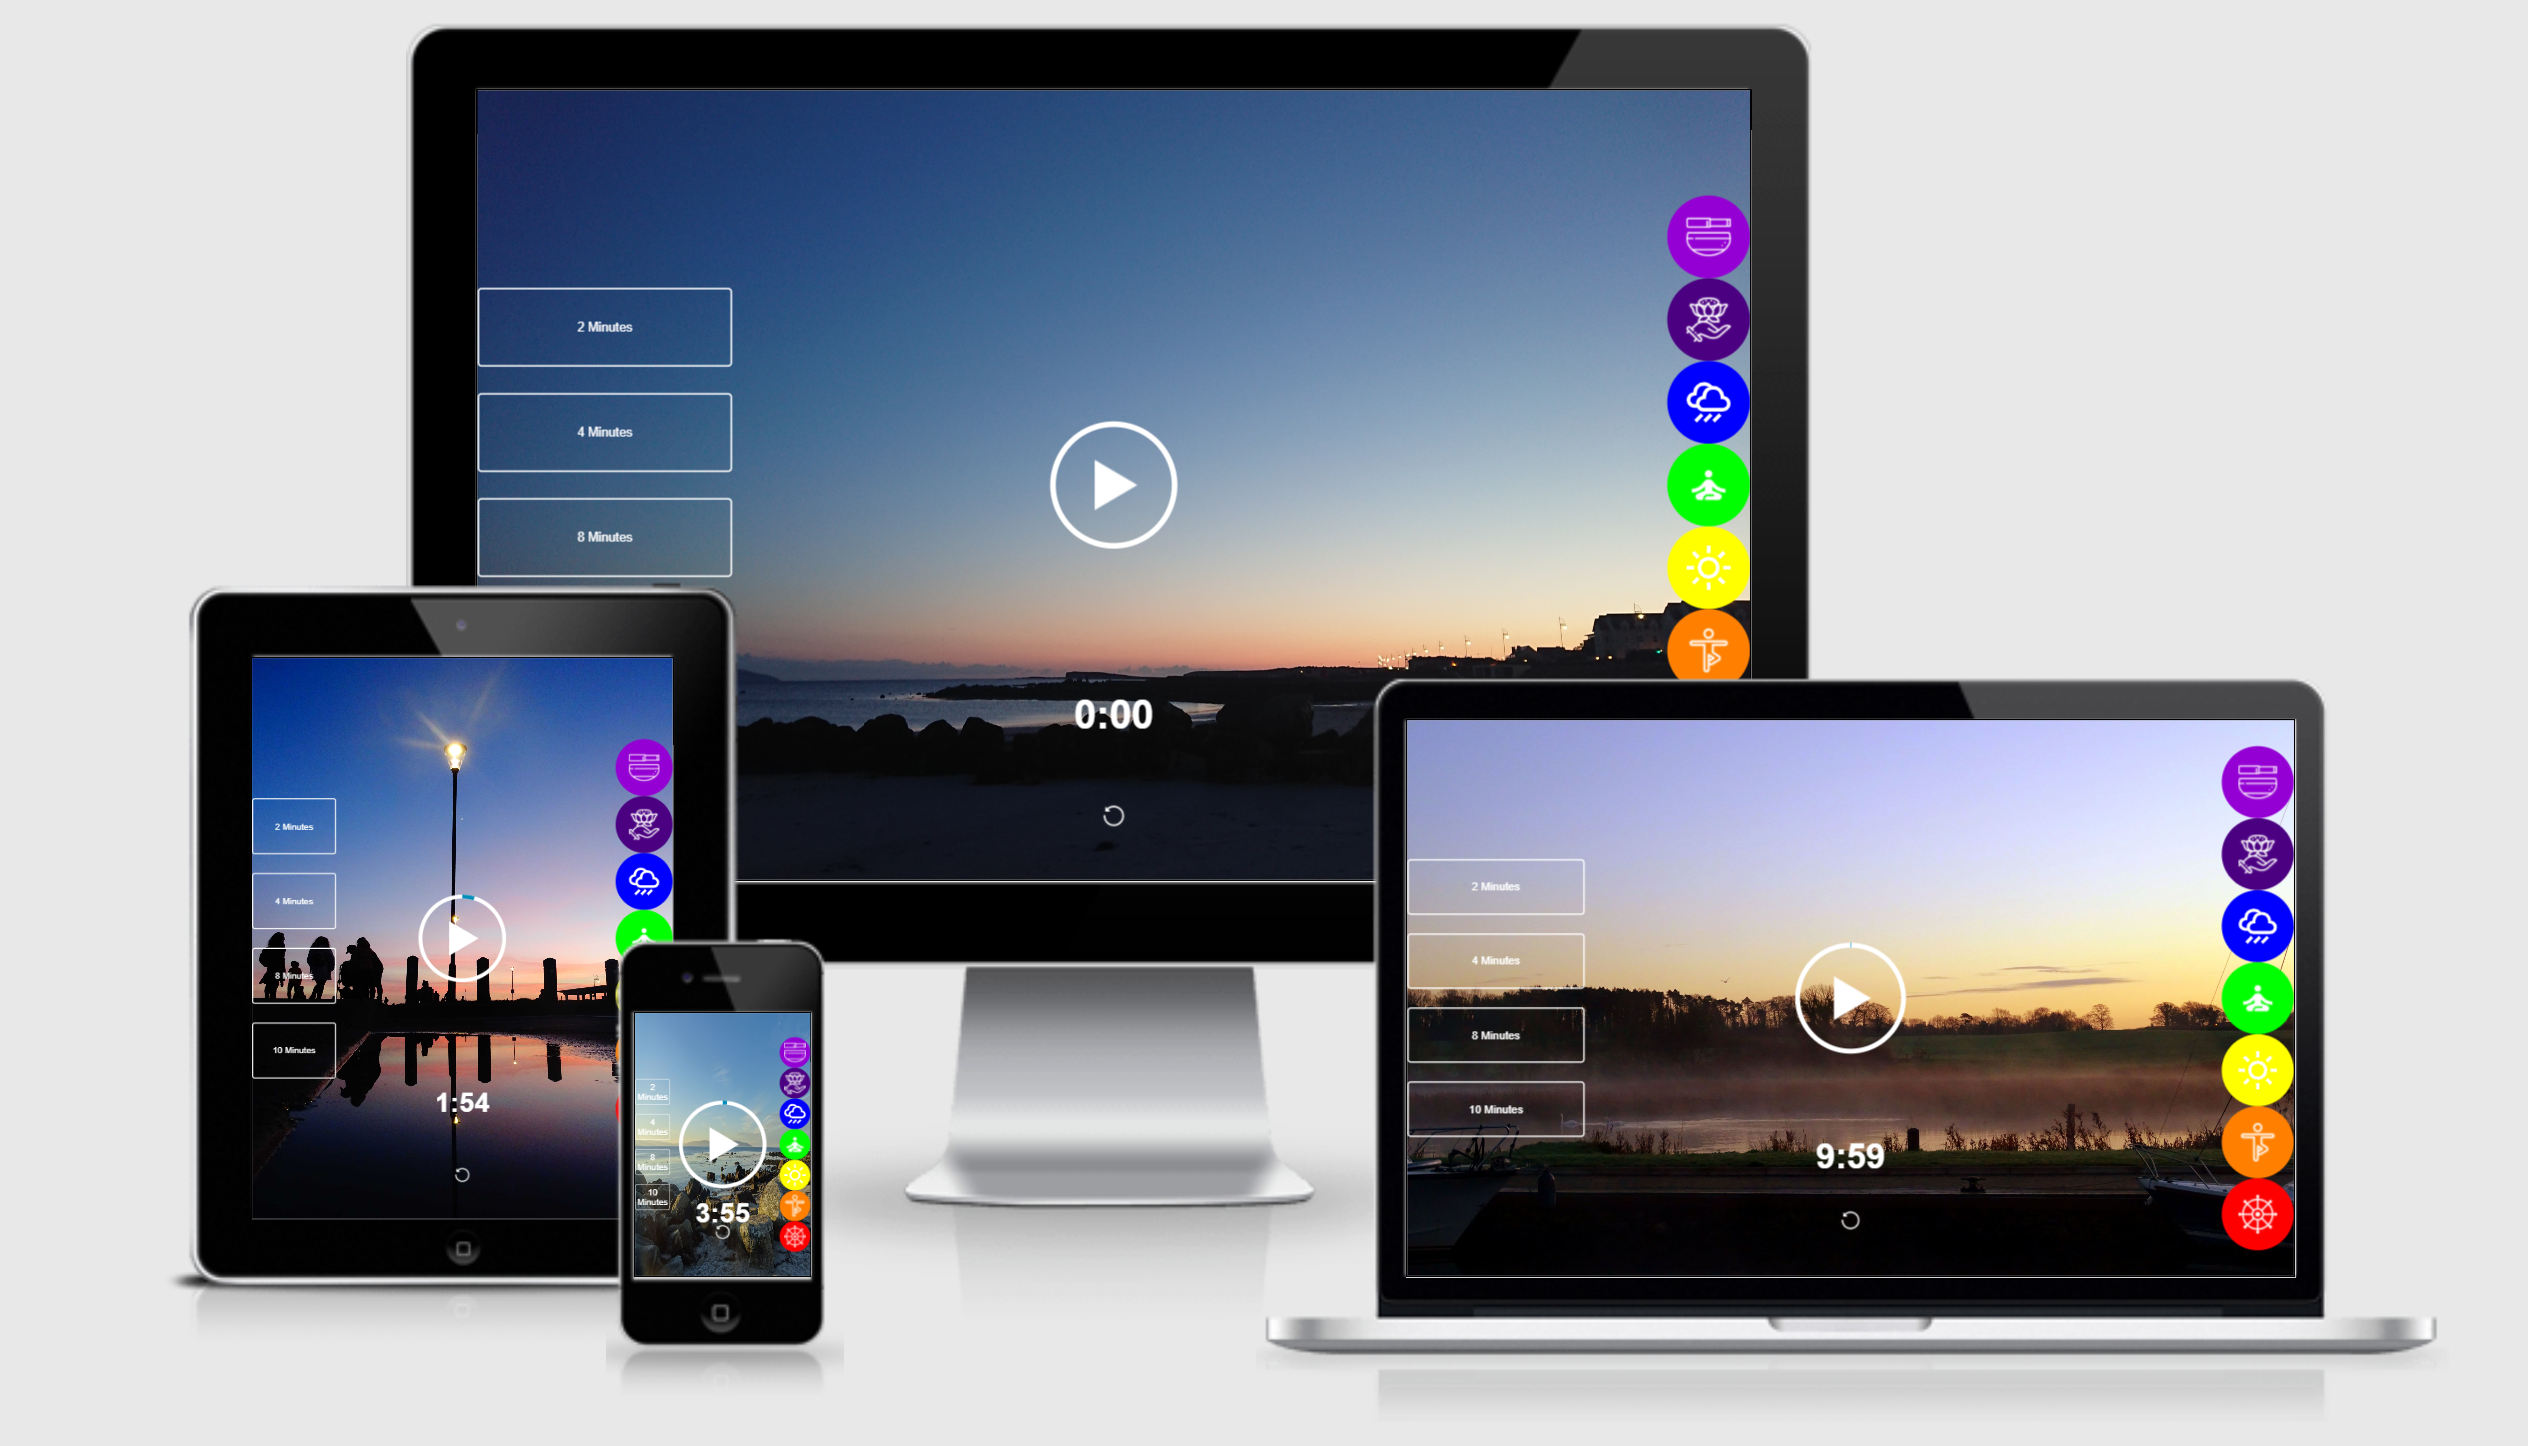
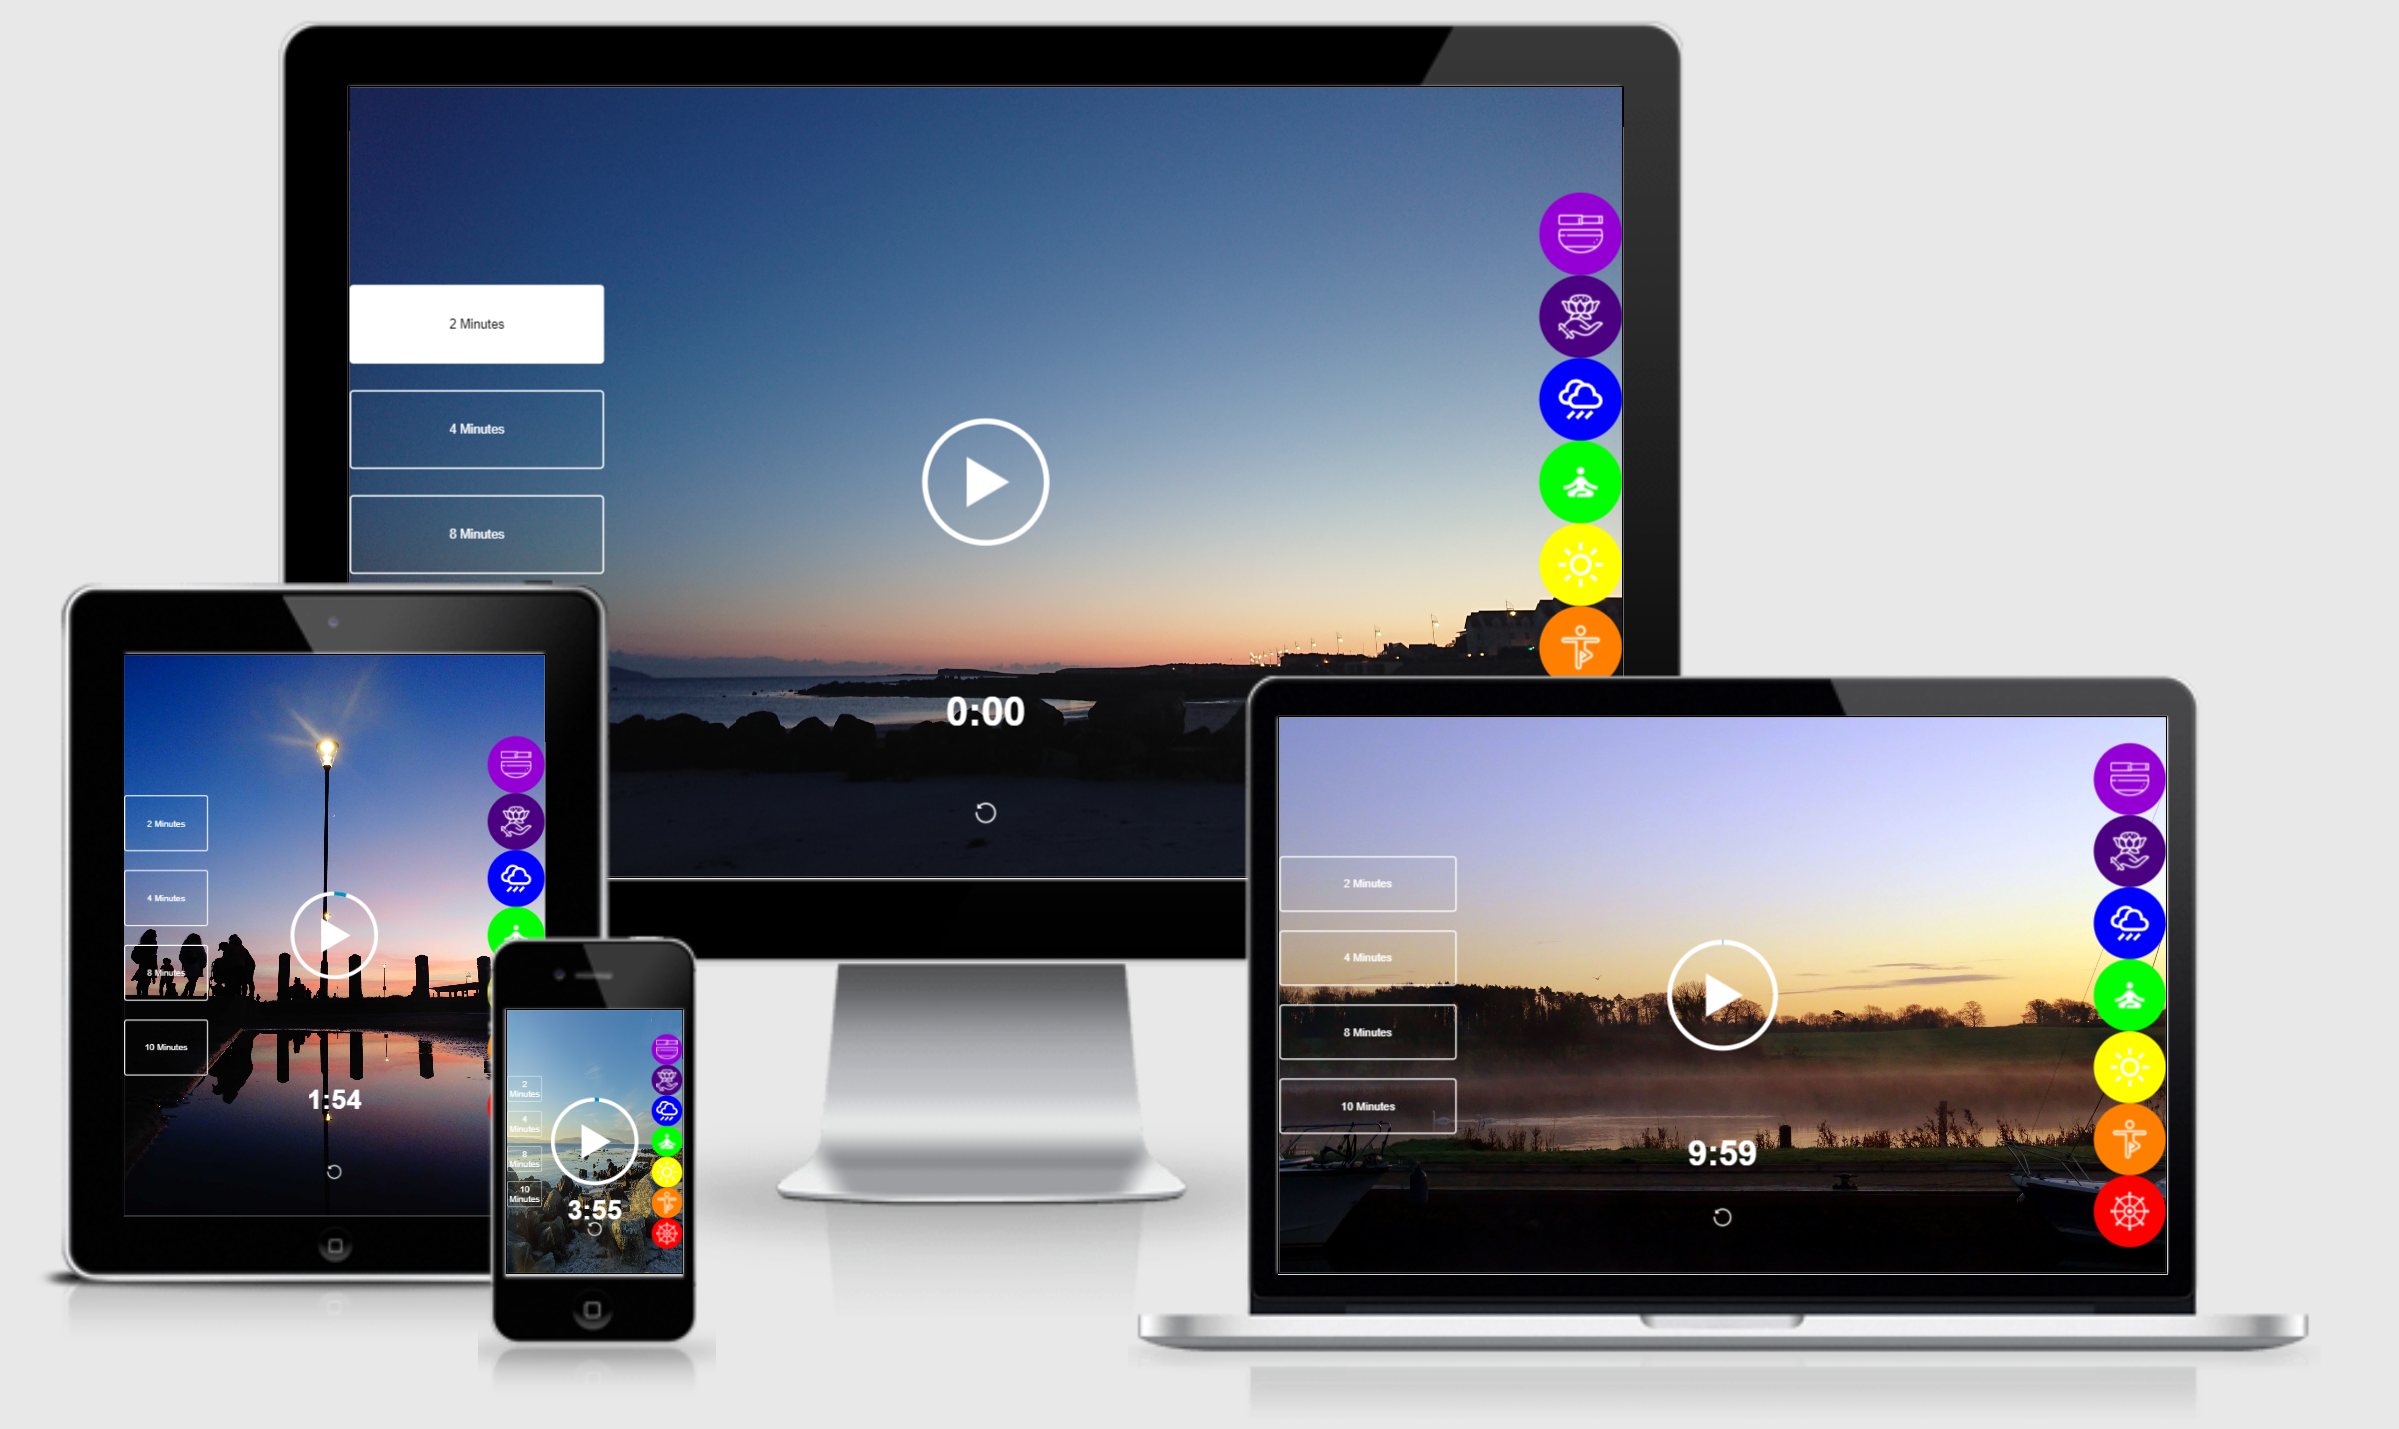
Add new image with a more relaxed meditation mood to replace a slightly more intense image at the top of the sound-pickers

Changed region(s): [[0.0, 0.0, 0.9562, 0.9853], [0.3702, 0.2771, 0.4627, 0.4003]]

diff --git a/index.html b/index.html
@@ -35,7 +35,7 @@
             <h3 class="time-display">0:00</h3>
         </div>
         <div class="sound-picker">
-            <button data-sound="assets/sounds/singing-bowl.mp3" data-img="assets/images/natures-art.JPG" class="tooltip"><span class="tooltiptext">Singing Bowl</span><img src="assets/icons/singing-bowl.png" alt="Singing Bowl sound & image of beach with expressive colours"></button>
+            <button data-sound="assets/sounds/singing-bowl.mp3" data-img="assets/images/fog.jpg" class="tooltip"><span class="tooltiptext">Singing Bowl</span><img src="assets/icons/singing-bowl.png" alt="Singing Bowl sound & image of beach with expressive colours"></button>
             <button data-sound="assets/sounds/mantra.mp3" data-img="assets/images/stillness.JPG" class="tooltip"><span class="tooltiptext">Mantra</span><img src="assets/icons/mantra.png" alt="Mantra: Om Mani Padme Hum  & image of a still Ocean with rocks on the bay"></button>
             <button data-sound="assets/sounds/rain.mp3" data-img="assets/images/rain.JPG" class="tooltip"><span class="tooltiptext">Rain Drops</span><img src="assets/svg/rain.svg" alt="Rain sounds & image of dark clowds over beach"></button>
             <button data-sound="assets/sounds/mindfulness.mp3" data-img="assets/images/reflections.jpg"class="tooltip"><span class="tooltiptext">Mindfulness</span><img src="assets/icons/sitting.png" alt="Mindfulness meditation guided with image of a reflection in a puddle at night time"></button>
